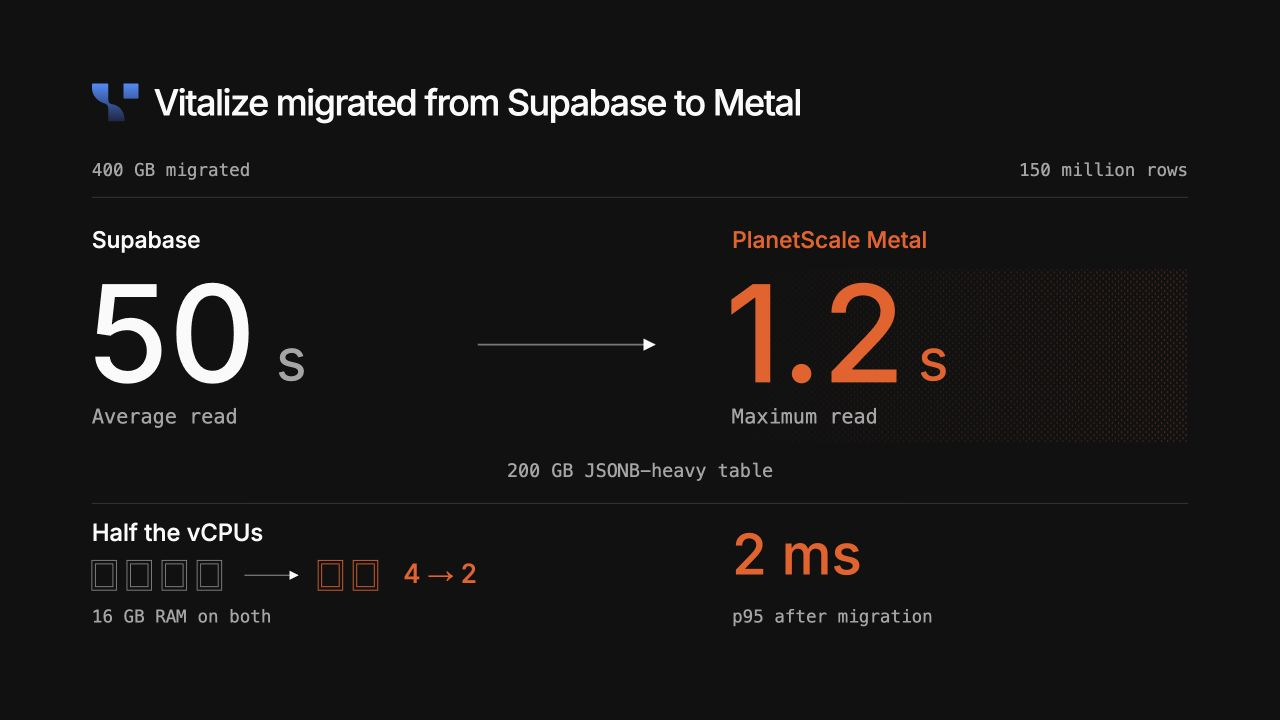
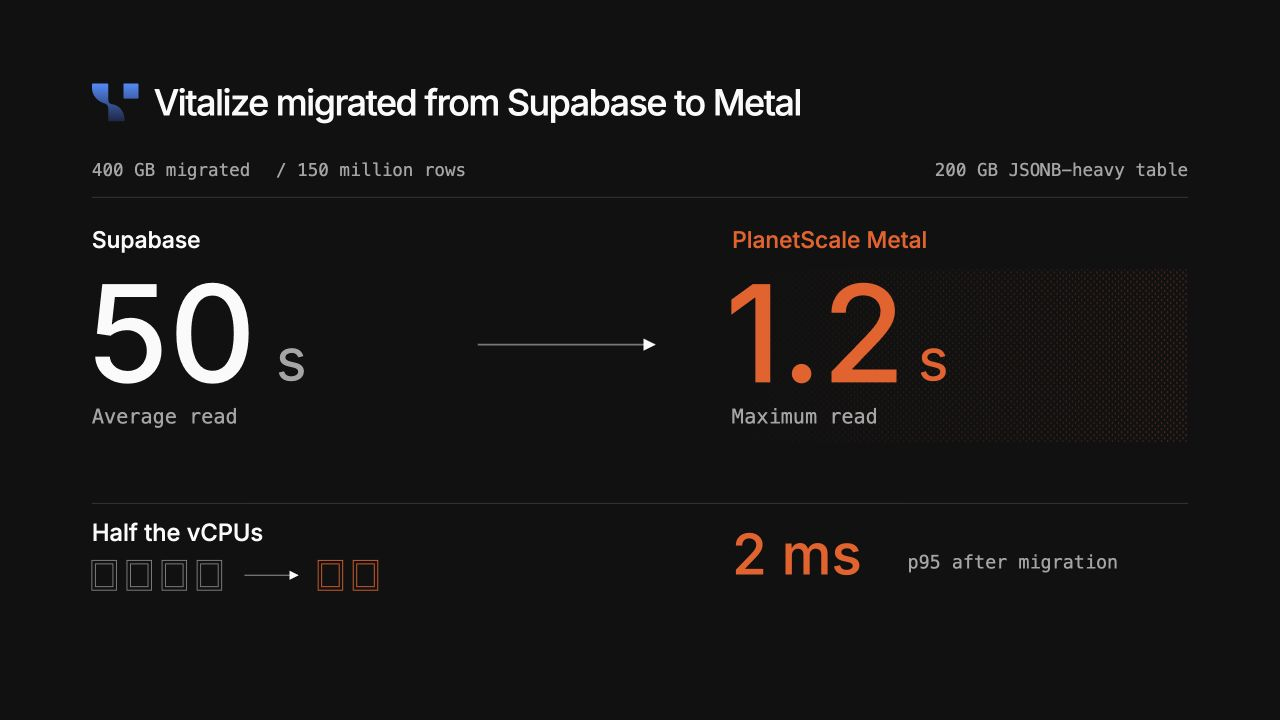
Tighten Vitalize slide labels and metric placement

diff --git a/build_content.py b/build_content.py
@@ -90,7 +90,7 @@ b+=txt(575,499,'seconds',16,GRAY,'end',mono=True)
 latency=svg(600,505,b,'One-second benchmark p99 latency samples over 300 seconds, 32 connections. PlanetScale 170.48 to 223.34 ms; Aurora 325.98 to 733 ms; AlloyDB 277.21 to 1235.62 ms; Supabase 196.89 to 1561.52 ms. Linear axis from zero to 1200 milliseconds; values above 1200 are clipped.',mark='p99')
 
 # Vitalize: an editorial comparison, with the statistic attached to each result.
-b=txt(0,22,'400 GB migrated',20,GRAY)+txt(1250,22,'150 million rows',20,GRAY,'end')
+b=txt(0,22,'400 GB migrated',20,GRAY)+txt(210,22,'/ 150 million rows',20,GRAY)+txt(1250,22,'200 GB JSONB-heavy table',20,GRAY,'end')
 b+=path('M0 46H1250','#383838',1)
 b+=txt(0,104,'Supabase',26,WHITE,mono=False,weight=500)
 b+=txt(730,104,'PlanetScale Metal',26,ORANGE,mono=False,weight=500)
@@ -101,17 +101,14 @@ b+=txt(-5,257,'50',154,WHITE,weight=500,mono=False)+txt(210,255,'s',66,GRAY,mono
 b+=txt(722,257,'1.2',154,ORANGE,weight=500,mono=False)+txt(942,255,'s',66,ORANGE,mono=False)
 b+=txt(0,304,'Average read',23,GRAY)+txt(730,304,'Maximum read',23,GRAY)
 b+=path('M440 214H642','#777777',2,arrow='vitalize-art')
-b+=txt(625,365,'200 GB JSONB-heavy table',21,GRAY,'middle')
 b+=path('M0 395H1250','#383838',1)
 # Physical CPU blocks make the resource change legible without another chart.
 b+=txt(0,438,'Half the vCPUs',27,WHITE,mono=False,weight=500)
 for x in [0,40,80,120]:b+=db(x,460,28,34,'#888888')
 b+=path('M174 477H235','#777777',1.5,arrow='vitalize-art')
 for x in [258,298]:b+=db(x,460,28,34,ORANGE)
-b+=txt(355,486,'4 → 2',30,ORANGE,mono=False,weight=500)
-b+=txt(0,531,'16 GB RAM on both',20,GRAY)
 b+=txt(730,476,'2 ms',64,ORANGE,mono=False,weight=500)
-b+=txt(730,531,'p95 after migration',20,GRAY)
+b+=txt(930,469,'p95 after migration',21,GRAY)
 vitalize_art=svg(1250,550,b,'Vitalize moved 400 GB and 150 million rows from Supabase to PlanetScale Metal. On the same 200 GB JSONB-heavy table, Supabase reads averaged 50 seconds and PlanetScale reads maxed out at 1.2 seconds; these are different statistics, not a matched percentile comparison. Compute changed from four to two vCPUs at 16 GB RAM each. After migration, p95 was about two milliseconds.',mark='vitalize-art')
 
 # Migration close: one destination, with a choice of delivery ownership.
